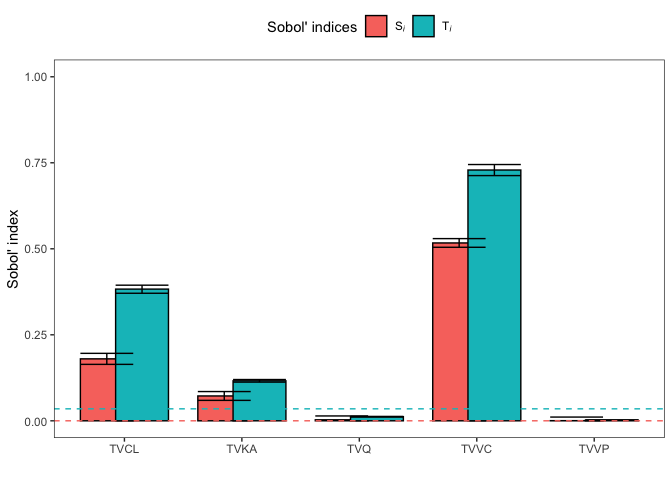
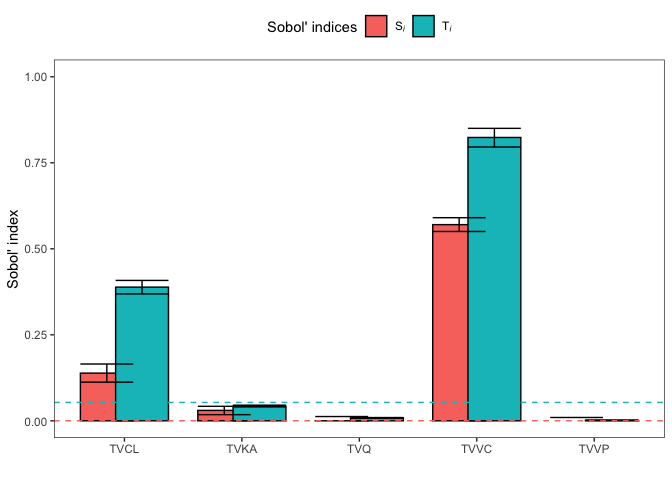
add a couple more plots for sobol

diff --git a/application/global-sensobol.md b/application/global-sensobol.md
@@ -1,7 +1,7 @@
 Sobol sensitivity analysis using sensobol
 ================
 Kyle Baron
-2021-11-22 16:05:53
+2021-11-22 16:27:20
 
 -   [Tools](#tools)
 -   [The sunitinib PK model](#the-sunitinib-pk-model)
@@ -105,18 +105,18 @@ head(mat)
 
 **Transform and groom**
 
-For this example, we will just take uniform samples based on the
-logarithm of the current value of the parameter.
+For this example, we will just take uniform samples based on the the
+current value of the parameter.
 
 ``` r
 params <- unlist(as.list(param(mod))[c("TVCL", "TVVC", "TVKA", "TVQ", "TVVP")])
-umin <- log(params / 5)
-umax <- log(params * 5)
+umin <- params / 5
+umax <- params * 5
 umin
 ```
 
-    .      TVCL      TVVC      TVKA       TVQ      TVVP 
-    .  2.337952  6.006353 -3.244194  0.367417  4.758749
+    .    TVCL    TVVC    TVKA     TVQ    TVVP 
+    .  10.360 406.000   0.039   1.444 116.600
 
 After setting the minimum and maximum for each parameter, get the value
 of the parameter by looking at the quantiles of the (log uniform)
@@ -124,19 +124,19 @@ distribution
 
 ``` r
 mat2 <- imodify(mat, ~ qunif(.x, umin[[.y]], umax[[.y]]))
-mat2 <- mutate(mat2, across(everything(), exp), ID = row_number())
+mat2 <- mutate(mat2, ID = row_number())
 head(mat2)
 ```
 
     . # A tibble: 6 × 6
-    .    TVCL  TVVC   TVKA   TVQ  TVVP    ID
-    .   <dbl> <dbl>  <dbl> <dbl> <dbl> <int>
-    . 1  51.8 2030  0.195   7.22  583      1
-    . 2 116.   908. 0.436   3.23 1304.     2
-    . 3  23.2 4539. 0.0872 16.1   261.     3
-    . 4  34.6 1358. 0.292   2.16 1949.     4
-    . 5 173.  6788. 0.0583 10.8   390.     5
-    . 6  77.5  607. 0.130   4.83  174.     6
+    .    TVCL  TVVC  TVKA   TVQ  TVVP    ID
+    .   <dbl> <dbl> <dbl> <dbl> <dbl> <int>
+    . 1 135.   5278 0.507 18.8  1516.     1
+    . 2 197.   2842 0.741 10.1  2215.     2
+    . 3  72.5  7714 0.273 27.4   816.     3
+    . 4 104.   4060 0.624  5.78 2565.     4
+    . 5 228.   8932 0.156 23.1  1166      5
+    . 6 166.   1624 0.39  14.4   466.     6
 
 # Run the analysis
 
@@ -169,18 +169,18 @@ ind
     . 
     . Total number of model runs: 229376 
     . 
-    . Sum of first order indices: 0.772696 
-    .         original          bias    std.error       low.ci     high.ci
-    .  1: 0.1800927710  1.238243e-05 0.0081723319  0.164062912 0.196097865
-    .  2: 0.5169806384 -7.072754e-06 0.0064265026  0.504391998 0.529583425
-    .  3: 0.0722516683  3.017526e-05 0.0065358709  0.059411422 0.085031565
-    .  4: 0.0029247659  3.563857e-05 0.0057386288 -0.008358378 0.014136633
-    .  5: 0.0004461823  7.463826e-05 0.0053585629 -0.010131046 0.010874134
-    .  6: 0.3828283356  3.441830e-04 0.0059880652  0.370747760 0.394220545
-    .  7: 0.7289651275  1.251542e-04 0.0082027993  0.712762782 0.744917165
-    .  8: 0.1162534021  1.782163e-05 0.0019111638  0.112489768 0.119981393
-    .  9: 0.0119834278  1.625625e-05 0.0003719938  0.011238077 0.012696266
-    . 10: 0.0019679814  2.644654e-06 0.0001137576  0.001742376 0.002188298
+    . Sum of first order indices: 0.7380731 
+    .          original          bias    std.error       low.ci     high.ci
+    .  1:  0.1386450195 -5.443701e-05 0.0134605344  0.112317294 0.165081619
+    .  2:  0.5702287103 -1.415956e-04 0.0102223164  0.550334934 0.590405678
+    .  3:  0.0302745338  2.545441e-04 0.0061872971  0.017893110 0.042146869
+    .  4:  0.0000557737  1.652504e-04 0.0063841189 -0.012622120 0.012403167
+    .  5: -0.0011309726 -4.711711e-05 0.0054836856 -0.011831682 0.009663971
+    .  6:  0.3885564747  1.018732e-04 0.0100190499  0.368817625 0.408091579
+    .  7:  0.8235786500  6.278763e-04 0.0138431873  0.795818625 0.850082922
+    .  8:  0.0429891387  2.074858e-05 0.0012776991  0.040464146 0.045472634
+    .  9:  0.0084979002 -6.232607e-06 0.0005036811  0.007516936 0.009491330
+    . 10:  0.0013766977 -2.950487e-06 0.0001292514  0.001126320 0.001632976
     .     sensitivity parameters
     .  1:          Si       TVCL
     .  2:          Si       TVVC
@@ -200,3 +200,17 @@ plot(ind, dummy = ind.dummy) + ylim(0,1)
 ```
 
 ![](img/sensobolunnamed-chunk-14-1.png)<!-- -->
+
+Plot outputs versus inputs
+
+``` r
+plot_scatter(N = 2000, data = mat2, Y = y, params = names(mat))
+```
+
+![](img/sensobolunnamed-chunk-15-1.png)<!-- -->
+
+``` r
+plot_multiscatter(N = 2000, data = mat2, Y = y, params = names(mat))
+```
+
+![](img/sensobolunnamed-chunk-16-1.png)<!-- -->
